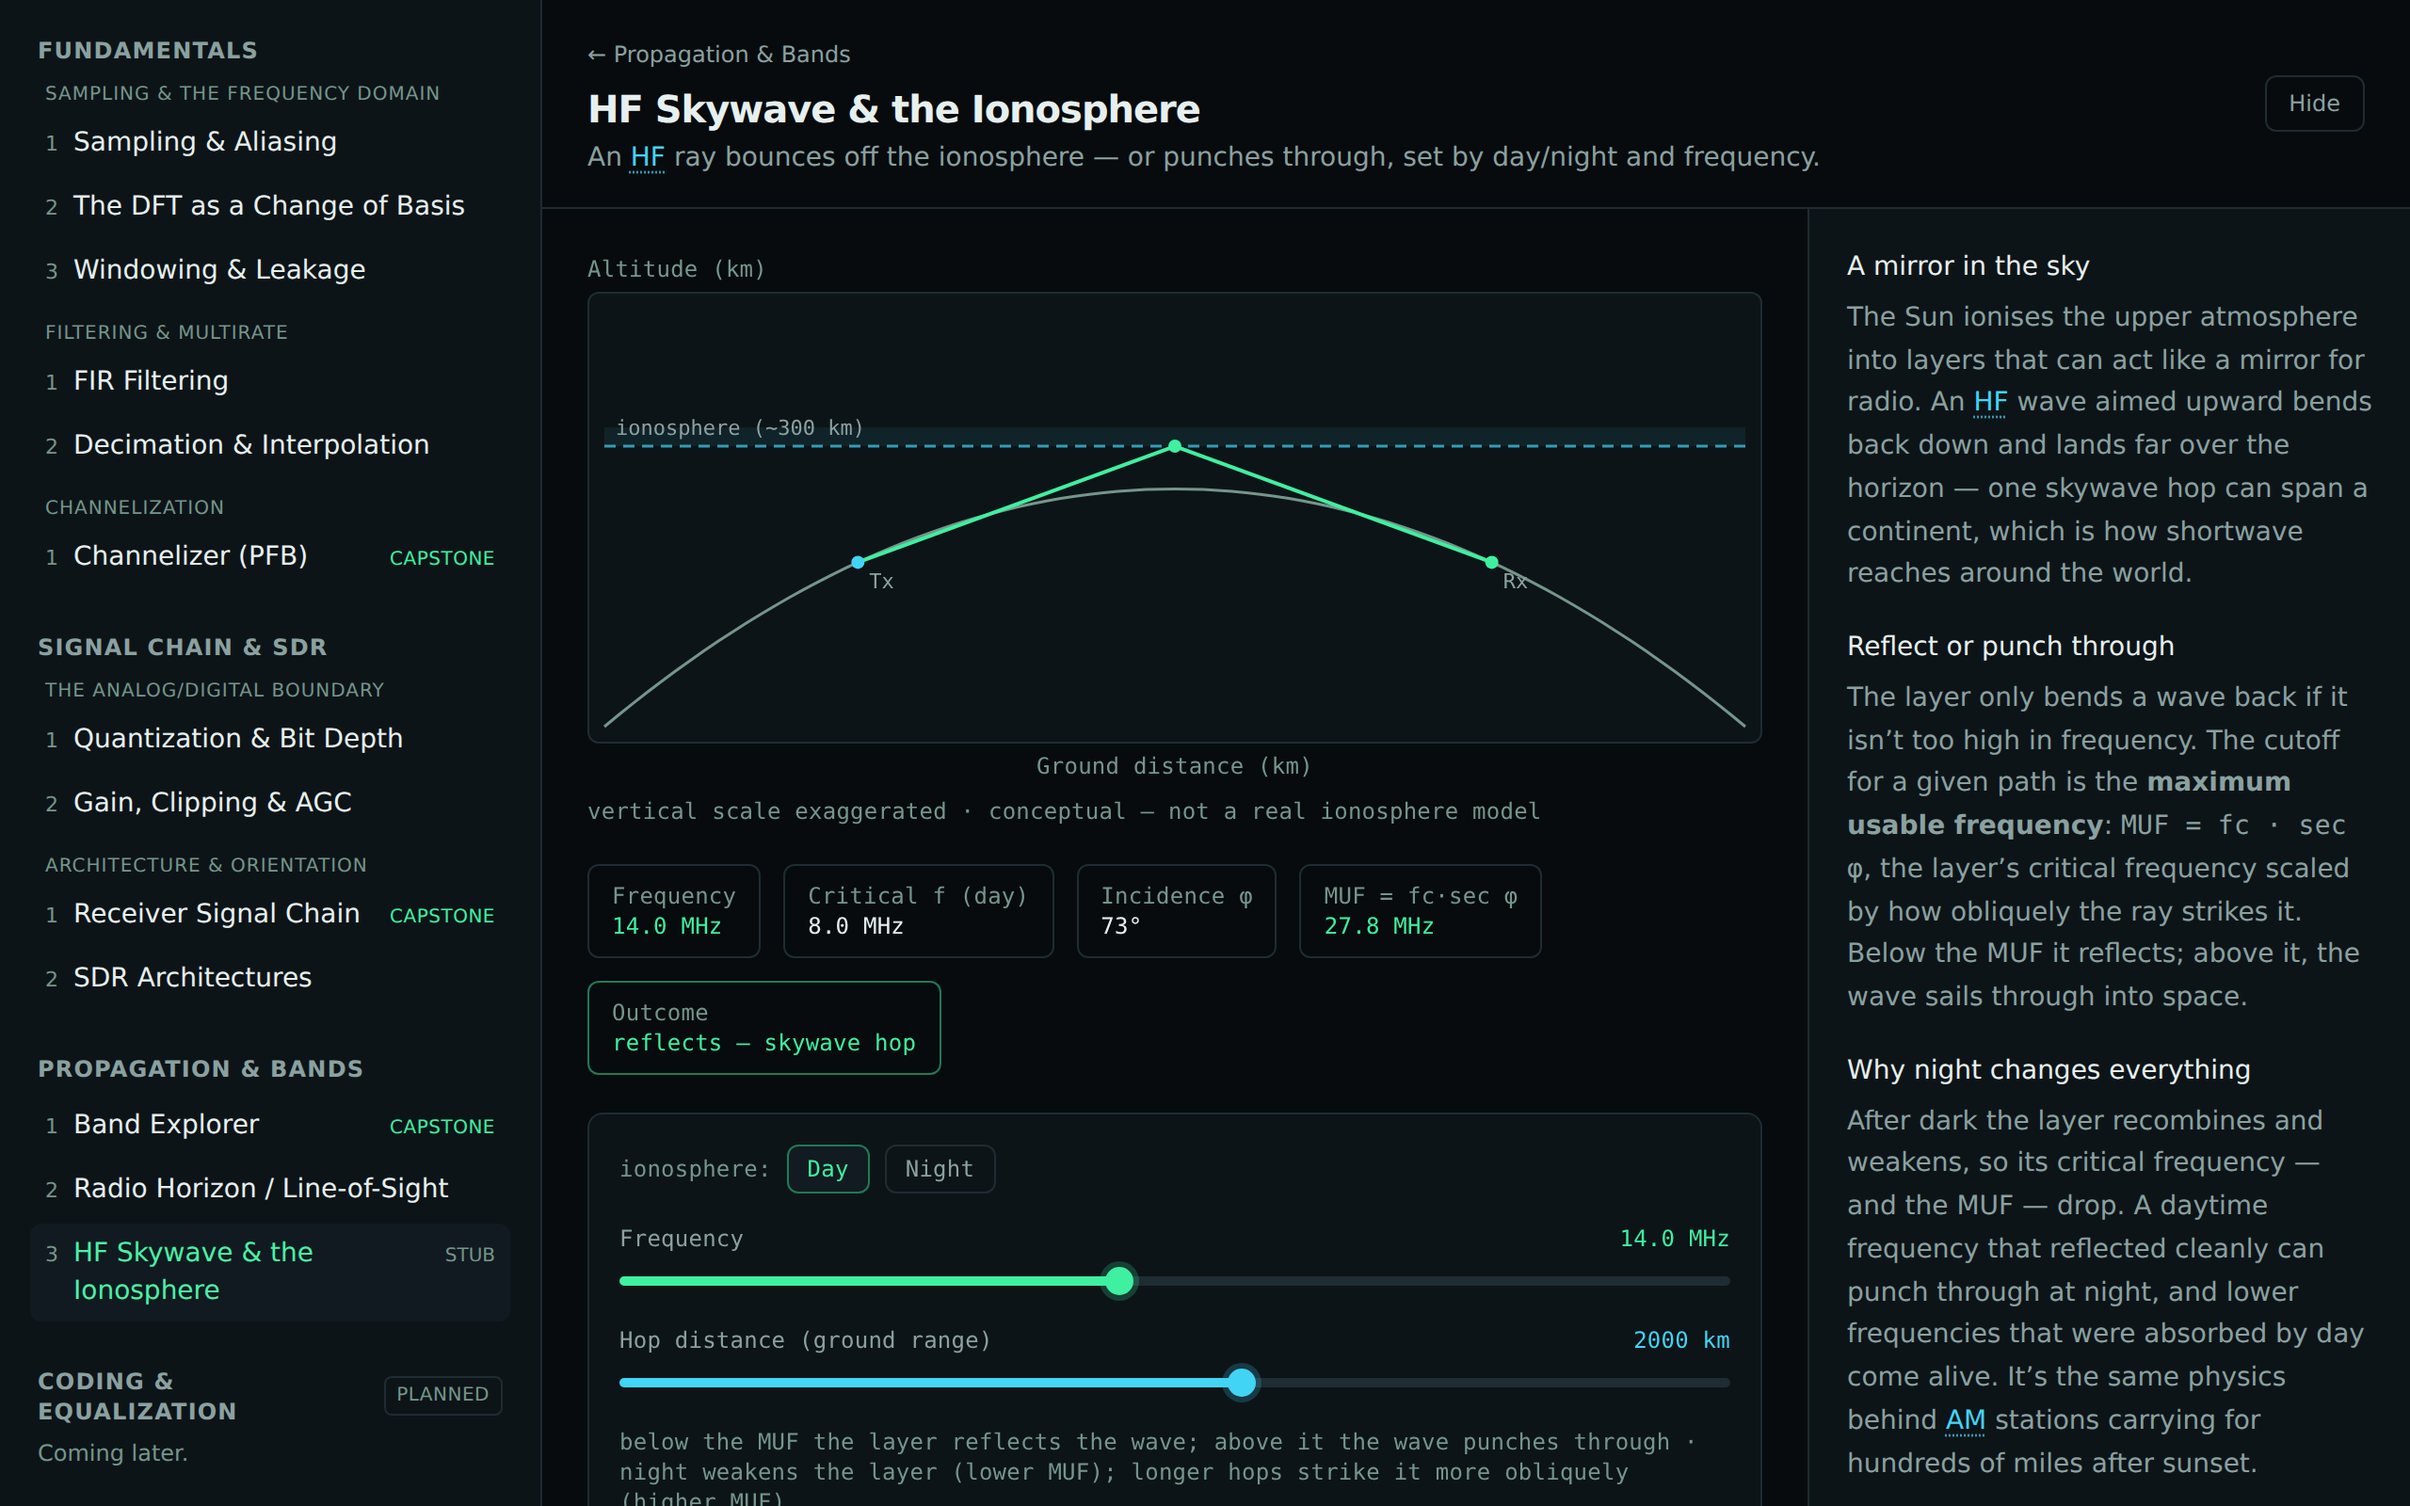
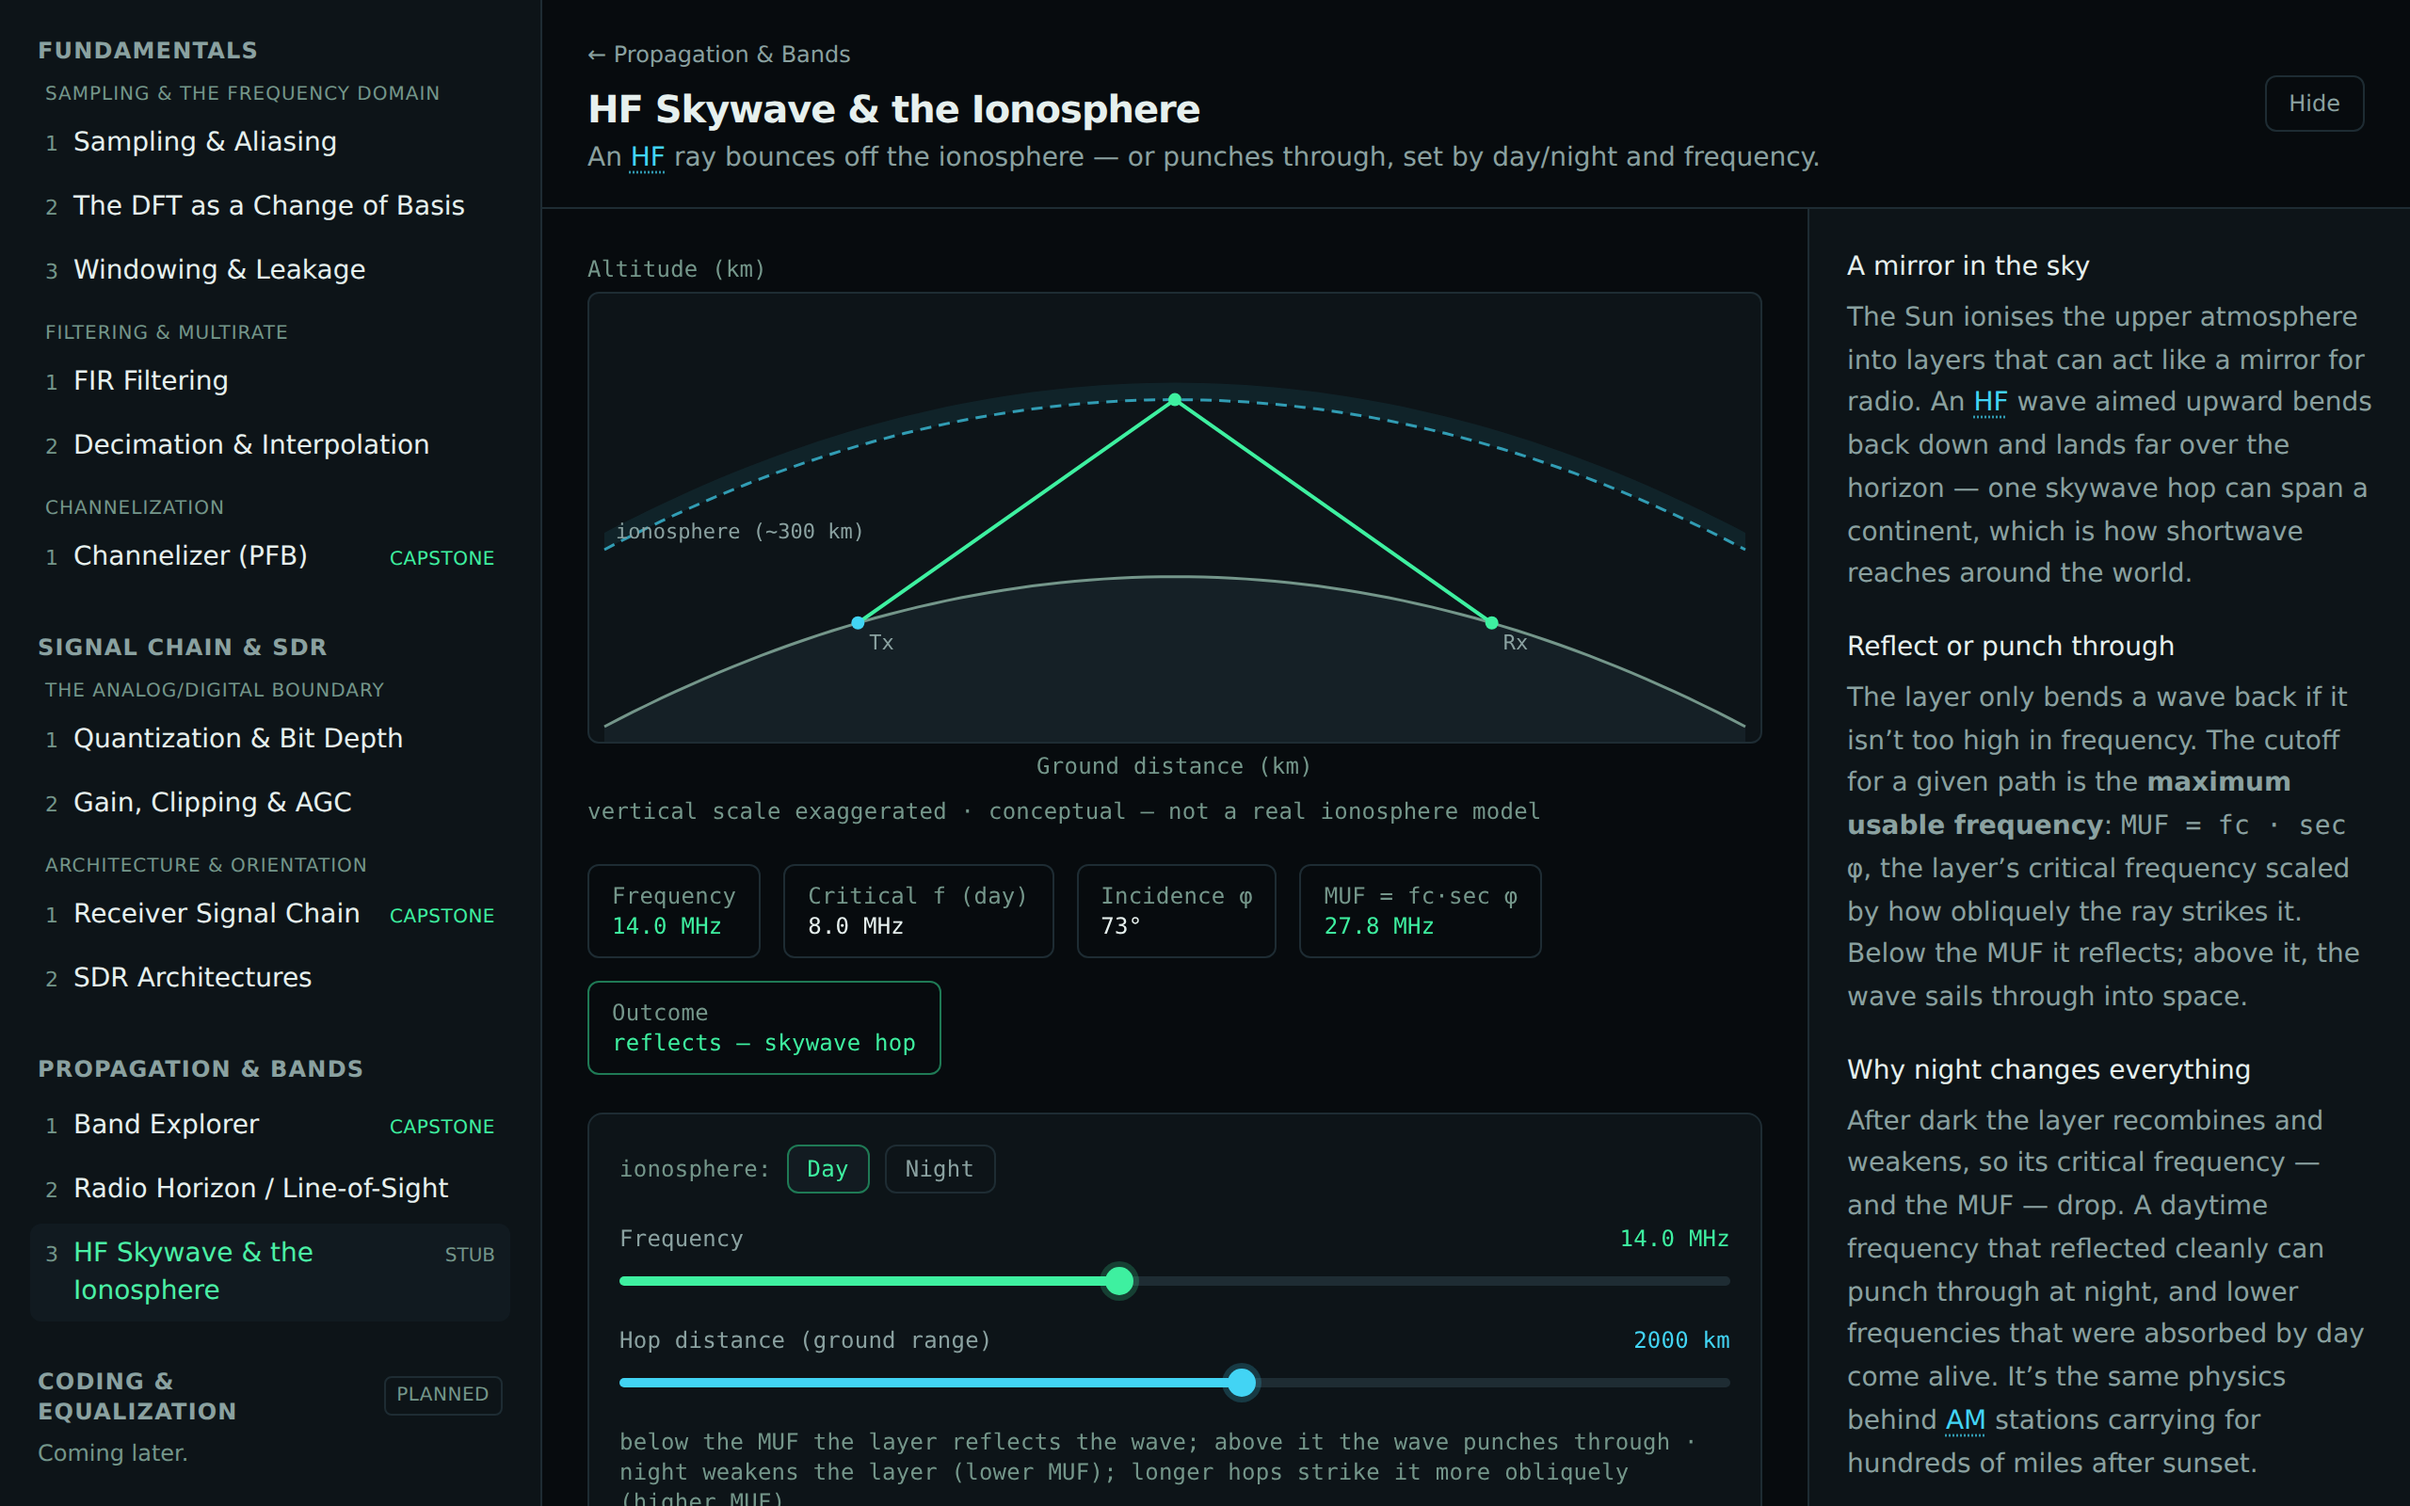
fix(propagation): seat the ionosphere shell above the curved surface
Codex review (PR #23): on the HF scene's 3600 km span the drawn Earth bulges to
~254 km at the centre, but the ionosphere was placed at an absolute 300 km — leaving
the labeled "~300 km" layer only ~46 km above the centre ground and letting the ray
cut through the bulge on long hops.

RayPathDiagram now draws the ionosphere as a shell a constant height *above the local
surface* (parallel to the curve), and fits the frame to peak + layer height. The HF
skywave apex and the Band Explorer skywave sketch reference surfaceKm(centre) + height
to match. Also bumps the Earth fill off the panel-background tone so the solid ground
the ray must clear actually reads. Screenshots regenerated.

Claude-Session: https://claude.ai/code/session_01GhPJvPpRWoJeox1xboisqw

diff --git a/src/components/plots/RayPathDiagram.tsx b/src/components/plots/RayPathDiagram.tsx
@@ -34,7 +34,7 @@ export interface RayPathDiagramProps {
   /** Effective Earth radius for the drawn bulge (km). Larger = flatter. Defaults to real Earth. */
   earthRadiusKm?: number;
   antennas?: RayPathAntenna[];
-  /** Optional ionosphere layer, drawn as a band at this altitude (km). */
+  /** Optional ionosphere layer, drawn as a shell this many km **above the local surface**. */
   ionosphereKm?: number;
   ionosphereLabel?: string;
   /** Module overlay — draw the rays (line-of-sight, skywave hop) in absolute altitude coords. */
@@ -85,7 +85,9 @@ export function RayPathDiagram({
   const autoTop = Math.max(
     peakKm * 1.1,
     ...antennas.map((a) => (surfaceKm(a.groundKm) + a.heightKm) * 1.15),
-    ionosphereKm ? ionosphereKm * 1.2 : 0
+    // The ionosphere sits a constant height above the (bulging) surface, so its highest point is the
+    // peak plus that height — fit to that, not the bare height, or the layer clips at large spans.
+    ionosphereKm ? (peakKm + ionosphereKm) * 1.15 : 0
   );
   const topKm = maxAltitudeKm ?? (autoTop > 0 ? autoTop : 1);
 
@@ -112,8 +114,9 @@ export function RayPathDiagram({
       ctx.lineTo(x1, h);
       ctx.lineTo(x0, h);
       ctx.closePath();
-      // Concrete fills: canvas can't resolve CSS vars. surface #0d1418, raised border #1e2c33.
-      ctx.fillStyle = 'rgba(13, 20, 24, 0.95)';
+      // Concrete fill (canvas can't resolve CSS vars): a touch above the surface tone so the solid
+      // Earth reads as ground a ray must clear, not blend into the panel background.
+      ctx.fillStyle = 'rgba(22, 33, 39, 0.97)';
       ctx.fill();
       ctx.strokeStyle = colors.textFaint;
       ctx.lineWidth = 1.5;
@@ -127,28 +130,48 @@ export function RayPathDiagram({
       ctx.stroke();
 
       // ── Ionosphere layer (skywave scenes). ────────────────────────────────
+      // A shell at constant height *above the surface*, so it parallels the Earth's curve rather than
+      // cutting toward the bulge at the centre (which would put the labeled height only a sliver above
+      // the ground on a long span).
       if (ionosphereKm != null) {
-        const a = toPx(0, ionosphereKm);
-        const b = toPx(spanKm, ionosphereKm);
+        const layerAlt = (g: number) => surfaceKm(g) + ionosphereKm;
         ctx.save();
         ctx.strokeStyle = colors.cyan;
         ctx.globalAlpha = 0.7;
         ctx.lineWidth = 1.5;
         ctx.setLineDash([6, 4]);
         ctx.beginPath();
-        ctx.moveTo(a.px, a.py);
-        ctx.lineTo(b.px, b.py);
+        for (let i = 0; i <= steps; i++) {
+          const g = (i / steps) * spanKm;
+          const p = toPx(g, layerAlt(g));
+          if (i === 0) ctx.moveTo(p.px, p.py);
+          else ctx.lineTo(p.px, p.py);
+        }
         ctx.stroke();
         ctx.setLineDash([]);
-        // Faint shaded layer above the line.
+        // Faint shaded band just above the layer line.
         ctx.globalAlpha = 0.08;
         ctx.fillStyle = colors.cyan;
-        ctx.fillRect(a.px, a.py - 10, b.px - a.px, 10);
+        ctx.beginPath();
+        for (let i = 0; i <= steps; i++) {
+          const g = (i / steps) * spanKm;
+          const p = toPx(g, layerAlt(g));
+          if (i === 0) ctx.moveTo(p.px, p.py);
+          else ctx.lineTo(p.px, p.py);
+        }
+        for (let i = steps; i >= 0; i--) {
+          const g = (i / steps) * spanKm;
+          const p = toPx(g, layerAlt(g));
+          ctx.lineTo(p.px, p.py - 9);
+        }
+        ctx.closePath();
+        ctx.fill();
         ctx.restore();
         if (ionosphereLabel) {
+          const left = toPx(0, layerAlt(0));
           ctx.fillStyle = colors.textMuted;
           ctx.font = '11px ui-monospace, monospace';
-          ctx.fillText(ionosphereLabel, a.px + 6, a.py - 6);
+          ctx.fillText(ionosphereLabel, left.px + 6, left.py - 6);
         }
       }
 

diff --git a/src/modules/propagation-and-bands/band-explorer/BandExplorerModule.tsx b/src/modules/propagation-and-bands/band-explorer/BandExplorerModule.tsx
@@ -7,6 +7,7 @@ import {
   BANDS,
   type Band,
   bandFor,
+  EARTH_RADIUS_KM,
   formatDistanceKm,
   formatFrequency,
   formatWavelength,
@@ -153,9 +154,12 @@ function ReachIllustration({ band }: { band: Band }) {
   const { spanKm, maxAltitudeKm, ionosphereKm, draw, ariaLabel } = useMemo(() => {
     if (band.mode === 'skywave') {
       const span = 3000;
+      // The ionosphere shell rides VIRTUAL_HEIGHT_KM above the bulging surface (peak at the centre),
+      // so the frame and the apex both reference that peak — not a bare absolute height.
+      const peakKm = (span / 2) ** 2 / (2 * EARTH_RADIUS_KM);
       return {
         spanKm: span,
-        maxAltitudeKm: VIRTUAL_HEIGHT_KM * 1.25,
+        maxAltitudeKm: peakKm + VIRTUAL_HEIGHT_KM * 1.25,
         ionosphereKm: VIRTUAL_HEIGHT_KM,
         ariaLabel: 'A skywave signal bouncing off the ionosphere on one long hop',
         draw: (ctx: CanvasRenderingContext2D, s: RayPathScene) => {
@@ -164,7 +168,7 @@ function ReachIllustration({ band }: { band: Band }) {
           emitter(ctx, s, txG);
           ray(ctx, s, [
             [txG, s.surfaceKm(txG)],
-            [span * 0.5, VIRTUAL_HEIGHT_KM],
+            [span * 0.5, s.surfaceKm(span * 0.5) + VIRTUAL_HEIGHT_KM],
             [rxG, s.surfaceKm(rxG)],
           ]);
           groundDot(ctx, s, rxG);
@@ -176,7 +180,7 @@ function ReachIllustration({ band }: { band: Band }) {
       const hKm = 0.08; // an ~80 m mast
       const txG = span * 0.1;
       // Horizon tangent distance for this mast height: d = √(2·R·h).
-      const dKm = Math.sqrt(2 * 6371 * hKm);
+      const dKm = Math.sqrt(2 * EARTH_RADIUS_KM * hKm);
       return {
         spanKm: span,
         maxAltitudeKm: 0.5,

diff --git a/src/modules/propagation-and-bands/hf-skywave/SkywaveModule.tsx b/src/modules/propagation-and-bands/hf-skywave/SkywaveModule.tsx
@@ -6,6 +6,7 @@ import { colors } from '@/design/tokens';
 import {
   CRITICAL_FREQ_DAY_MHZ,
   CRITICAL_FREQ_NIGHT_MHZ,
+  EARTH_RADIUS_KM,
   incidenceAngleDeg,
   mufMHz,
   reflectsSkywave,
@@ -14,7 +15,10 @@ import {
 
 const SPAN_KM = 3600; // fixed frame; the hop is centred inside it
 const CENTER = SPAN_KM / 2;
-const MAX_ALT_KM = VIRTUAL_HEIGHT_KM * 1.45;
+// The drawn Earth bulges to this height at the centre; the ionosphere shell rides above it, so the
+// frame must clear the peak + the layer height (with headroom for the escape ray).
+const PEAK_KM = (CENTER * CENTER) / (2 * EARTH_RADIUS_KM);
+const MAX_ALT_KM = PEAK_KM + VIRTUAL_HEIGHT_KM * 1.45;
 
 /**
  * HF Skywave & the Ionosphere — a conceptual stub (brief §8). A single HF hop climbs to a reflecting
@@ -39,7 +43,8 @@ export function SkywaveModule() {
 
   const draw = (ctx: CanvasRenderingContext2D, s: RayPathScene) => {
     const tx = s.toPx(gTx, s.surfaceKm(gTx));
-    const apex = s.toPx(CENTER, VIRTUAL_HEIGHT_KM);
+    // The reflection point sits on the ionospheric shell — VIRTUAL_HEIGHT_KM above the local surface.
+    const apex = s.toPx(CENTER, s.surfaceKm(CENTER) + VIRTUAL_HEIGHT_KM);
 
     ctx.lineWidth = 2;
     ctx.strokeStyle = rayColor;
